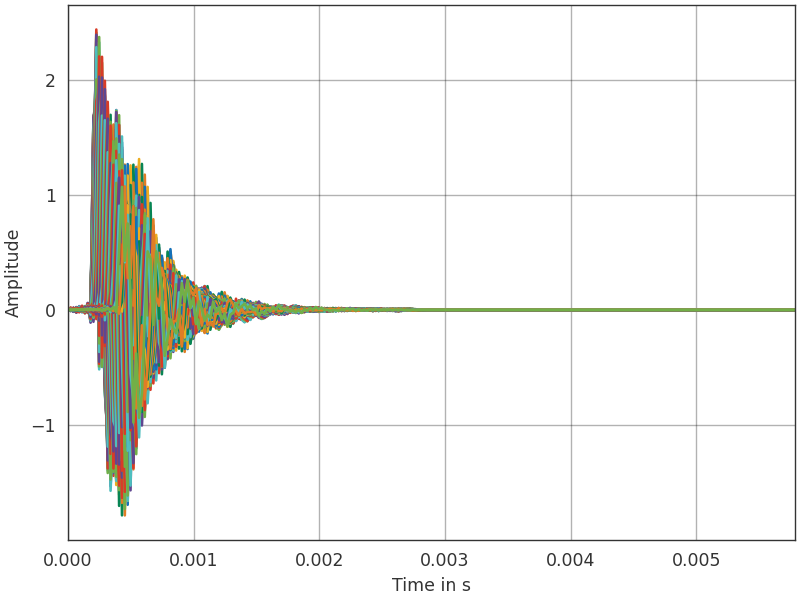
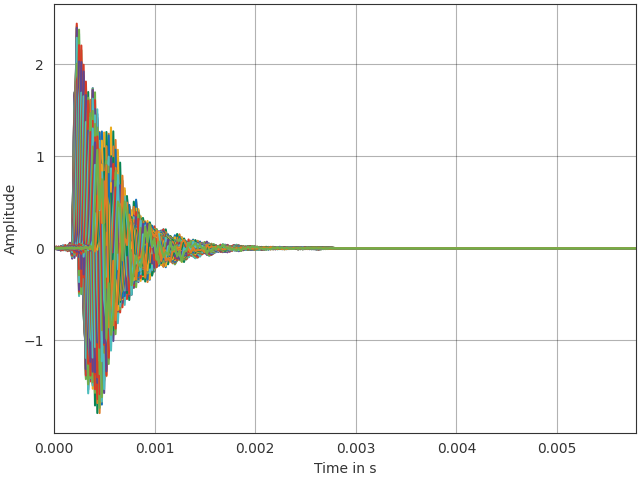
Python code for thumbnail

diff --git a/docs/_static/thumbnail_pyfar_interactive_plots.py b/docs/_static/thumbnail_pyfar_interactive_plots.py
@@ -1,0 +1,11 @@
+%%
+
+import pyfar as pf
+import matplotlib.pyplot as plt
+
+hrirs, sources = pf.signals.files.head_related_impulse_responses(position='horizontal')
+
+pf.plot.use()
+plt.figure()
+pf.plot.time(hrirs)
+plt.savefig('thumbnail_pyfar_interactive_plots.png')
